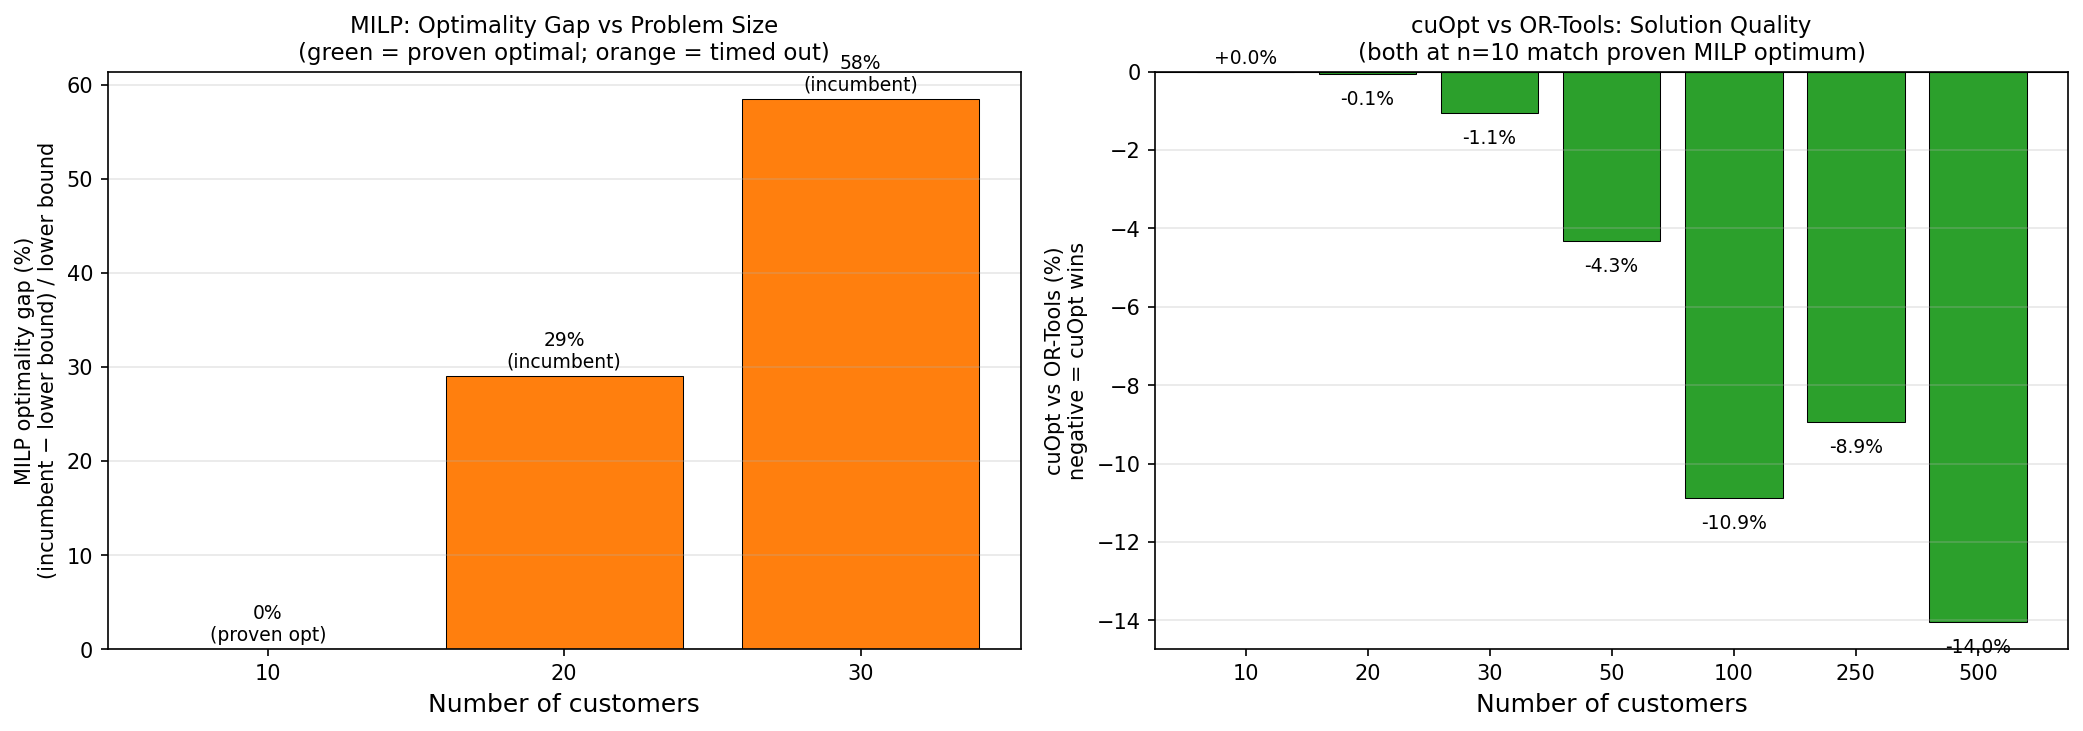
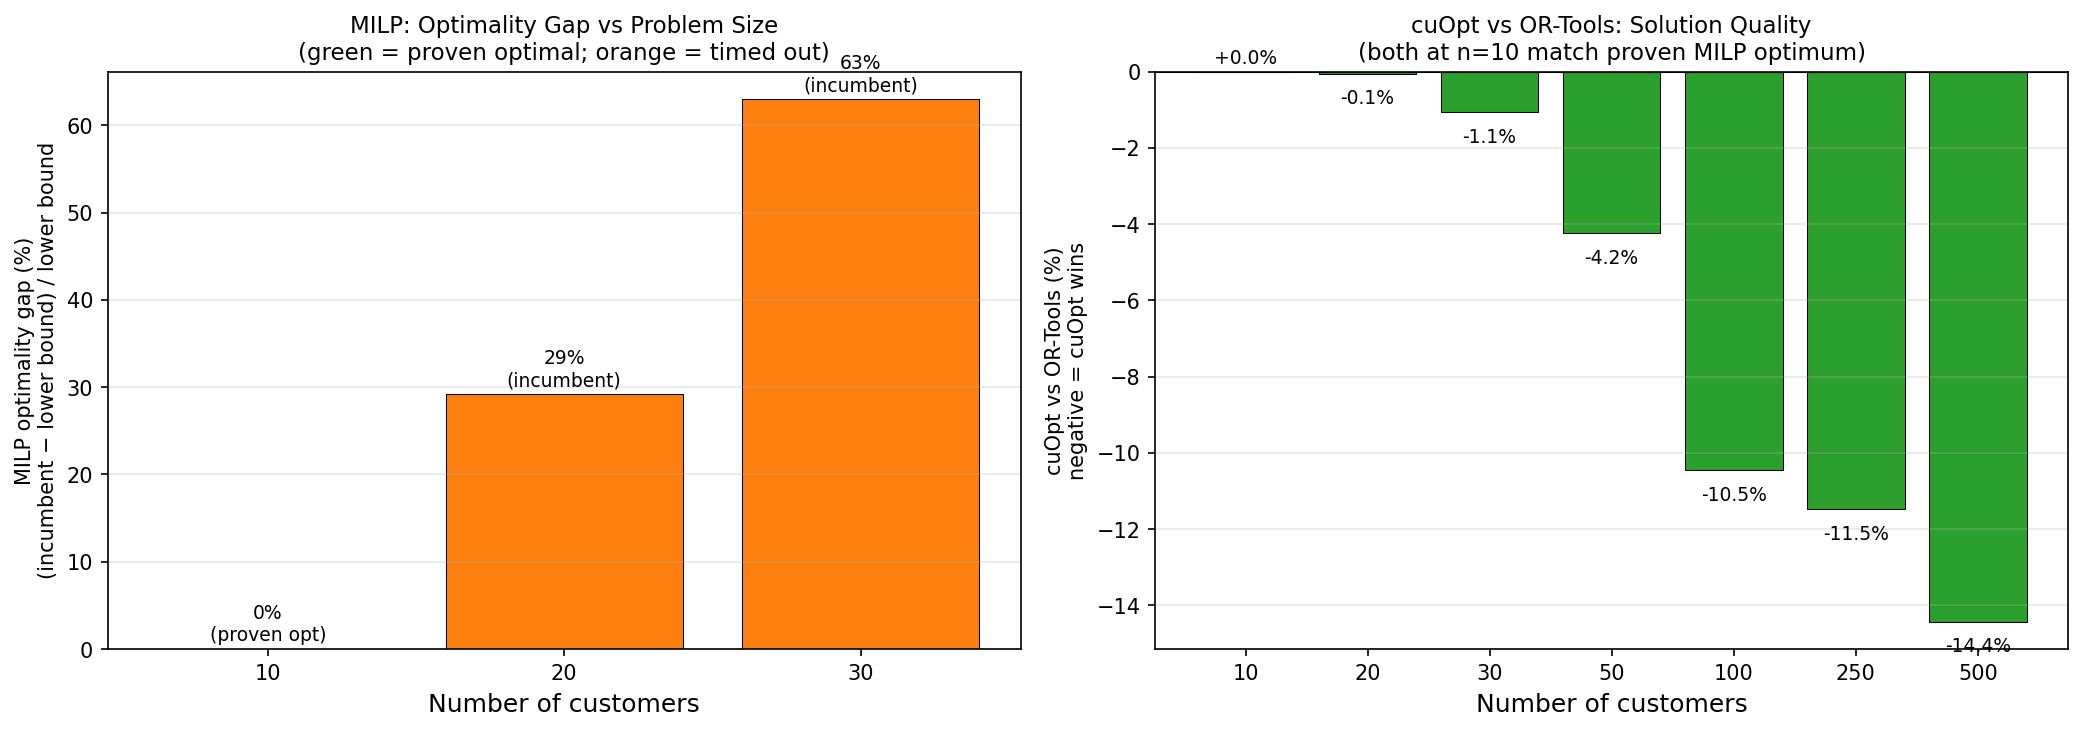
Scale coordinates to 100x100 km grid, re-run benchmark with readable costs

diff --git a/vrp_benchmark/data.py b/vrp_benchmark/data.py
@@ -1,7 +1,8 @@
 """CVRP instance generator and data types.
 
-Generates random instances in the unit square with uniform demand.
-All instances use a single depot at (0.5, 0.5).
+Generates random instances in a 100×100 grid with uniform demand.
+Coordinates represent km; depot is at (50, 50). Costs are in km.
+All instances use a single depot at (50, 50).
 """
 from __future__ import annotations
 
@@ -66,9 +67,9 @@ def generate_instance(
         A CVRPInstance with n_customers customers.
     """
     rng = np.random.default_rng(seed)
-    coords = rng.uniform(0.0, 1.0, size=(n_customers, 2))
+    coords = rng.uniform(0.0, 100.0, size=(n_customers, 2))
     demands = rng.integers(demand_range[0], demand_range[1] + 1, size=n_customers)
-    depot = np.array([0.5, 0.5])
+    depot = np.array([50.0, 50.0])
     # Minimum vehicles needed: ceil(total_demand / capacity)
     n_vehicles = int(np.ceil(demands.sum() / capacity)) + 1
     return CVRPInstance(